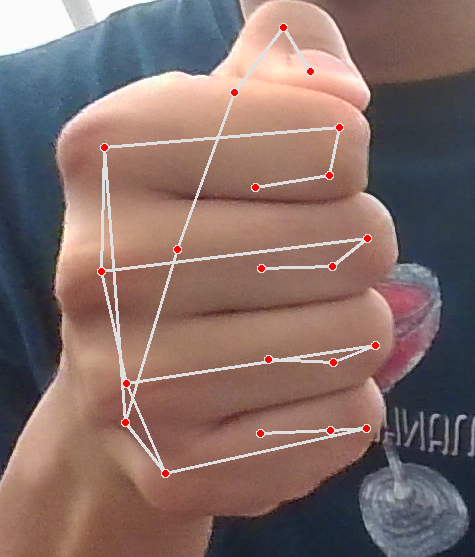
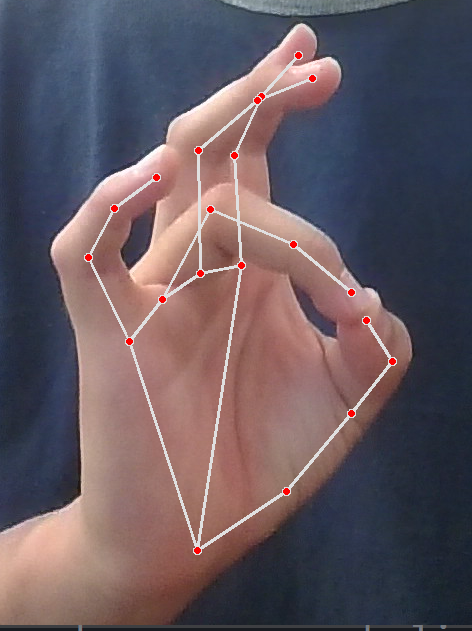
update readme hold click command

diff --git a/README.md b/README.md
@@ -9,7 +9,7 @@ VirtualMouse is a program that lets you control your computer / GUI using only h
 | Cursor | 	![Cursor](images/virtual-mouse.png) | Move the right index finger to control the cursor. |
 | Left Click | ![Left Click](images/left-click.png) | Pinch the right hand's middle finger and thumb. |
 | Right Click | ![Right Click](images/right-click.png) | Pinch the left hand's middle finger and thumb. | 
-| Hold Click | ![Hold Click](images/hold-click.png) |  Press the left hand's thumb down, like pressing a button. Drag the cursor to select content, then lift the left hand's thumb. |
+| Hold Click | ![Hold Click](images/hold-click.png) |  Pinch the left hand's ring finger and thumb. |
 | Scroll | ![Scroll](images/scroll.png) | Pinch the left hand's index finger and thumb, and drag up / down to scroll up / down. |
 
 ## Tools
